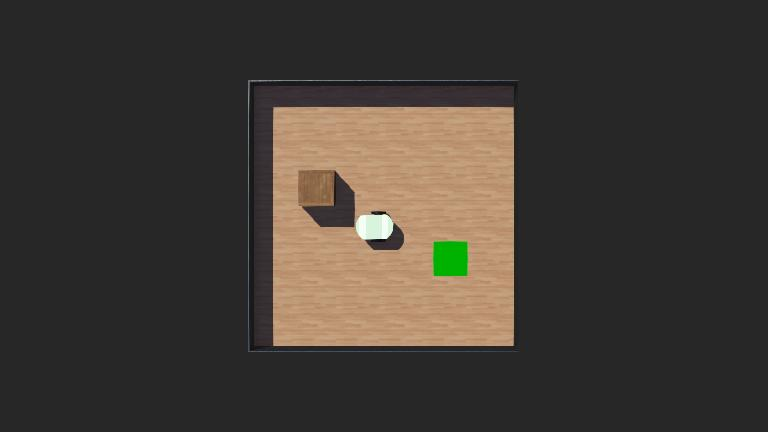
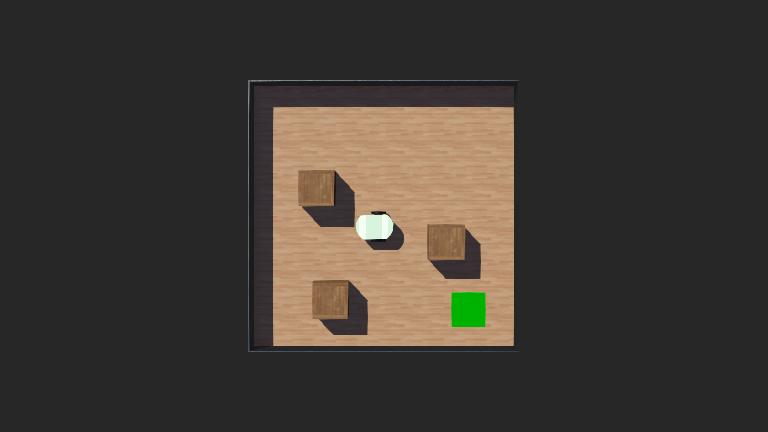
fixed the hard map

Changed region(s): [[0.5312, 0.5116, 0.6562, 0.7824], [0.4062, 0.6319, 0.5, 0.7824]]

diff --git a/src/simulation/controllers/random_walk/random_walk.py b/src/simulation/controllers/random_walk/random_walk.py
@@ -3,10 +3,10 @@ from _algorithm import RandomWalk
 from stable_baselines3.common.env_checker import check_env
 
 # train / train_save / test
-MODEL_MODE = "test"
+MODEL_MODE = "train"
 
 # easy / medium / hard
-ENV_MODE = "easy"
+ENV_MODE = "hard"
 
 # front / front_back / sides
 ROBOT_SENSORS = "front"
